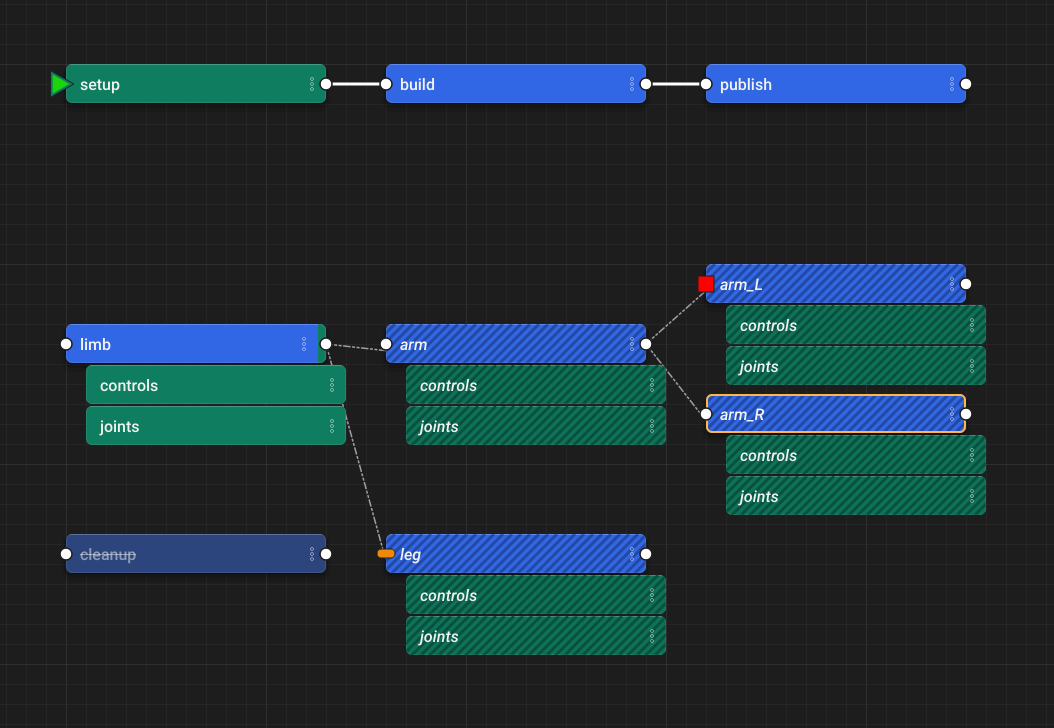
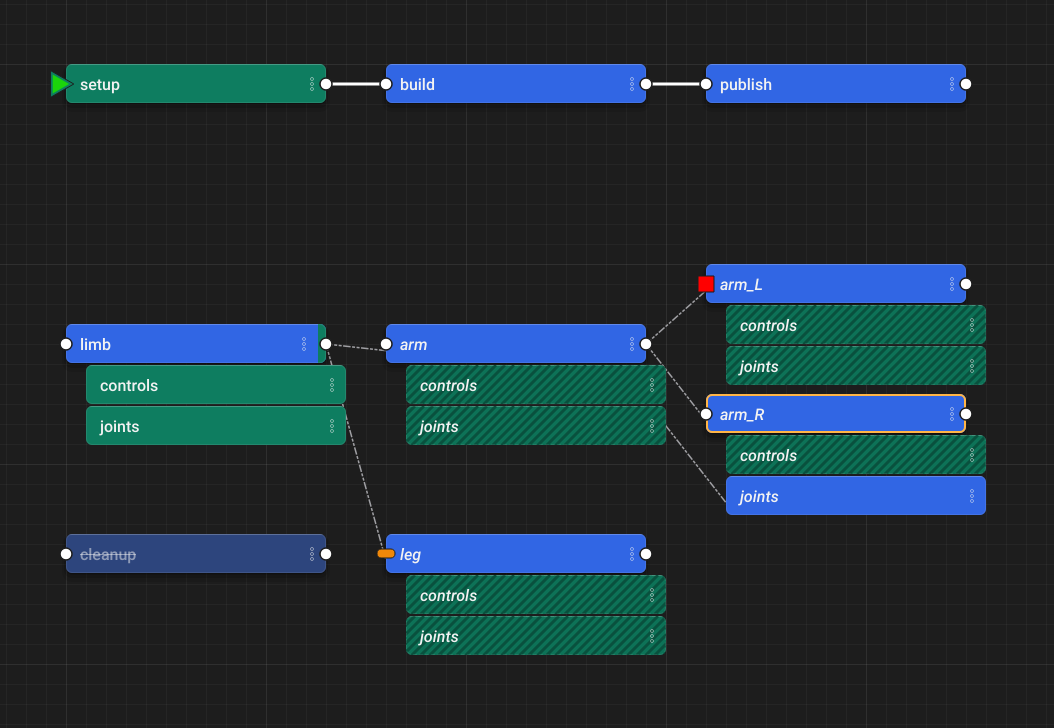
Only proxy nodes are striped, and what is new in 4.6.1
The pictures and text showed every instance striped. Only proxy nodes,
made by an instance with nothing of their own yet, are; the example graph
now overrides one proxy child to show the difference.

diff --git a/docs/user_docs/docs/editor.md b/docs/user_docs/docs/editor.md
@@ -45,7 +45,7 @@ hidden, switch between open files from the bottom of the **Window** menu.
 
 ### How nodes look
 
-![Nodes in their layer colors: a node with a weaker layer's chip, striped instances, a disabled node, a selected node, and start, break and skip points](images/nodes_look.png)
+![Nodes in their layer colors: a node with a weaker layer's chip, striped proxy nodes, a disabled node, a selected node, and start, break and skip points](images/nodes_look.png)
 
 The editor is drawn in neutral dark greys, so the only color on screen is
 your layers'. It ships its own fonts, sized in pixels, and its own colors,
@@ -58,8 +58,10 @@ and Blender.
   changed for you alone, see [Layer Color View](#layer-color-view)
   below.
 - Names are white. A disabled node's title is faded and struck through, and
-  a node that is an instance, or was made by one, has its name in italics
-  and diagonal stripes across its title.
+  an instance has its name in italics. A proxy node, one made by an
+  instance that has nothing of its own yet, has diagonal stripes across its
+  title. Change anything on it and it becomes a node of its own, drawn like
+  any other.
 - A selected node has an amber outline, and the node under the mouse a thin
   white one.
 - Start, skip and break points sit on the node's exec input: a green
@@ -555,8 +557,8 @@ on from **Window > Outliner**.
   above them stay so you can see where they are, and `Enter` frames the
   first match.
 - Text is white, as on the node in the graph, and a disabled node's is
-  faded and in italics. An instanced node's row is striped, as its title
-  is in the graph. Hovering a row outlines it in white and selecting
+  faded and in italics. A proxy node's row is striped, as its title is
+  in the graph. Hovering a row outlines it in white and selecting
   it outlines it in amber, the row's color staying as it is.
 - Start, break and skip points show before the name as they do on the
   node in the graph: the start icon, a red square for a breakpoint and an

diff --git a/docs/user_docs/docs/whats_new.md b/docs/user_docs/docs/whats_new.md
@@ -4,14 +4,21 @@ This page summarises what is new in **nxt_editor 4.6**, **nxt_editor 4.5**,
 **nxt_editor 4.4** and **nxt_core 0.21**. Each item links to the part of the docs that explains
 it in full.
 
+## nxt_editor 4.6.1
+
+- Only proxy nodes are striped again, as before 4.6.0: nodes made by an
+  instance that have nothing of their own yet. An instance, or a node that
+  overrides anything its instance gives it, looks like any other node, in
+  the graph and the Outliner. See [How nodes look](editor.md#how-nodes-look).
+
 ## nxt_editor 4.6.0
 
 ### A new look, the same everywhere
 
 The editor is drawn in neutral dark greys, so the only color on screen is
 your layers'. Nodes are rounded cards in their layer's color with white
-names, a selected node has an amber outline, and instanced nodes are
-striped. It ships its own fonts and colors, so it looks the same on every
+names, a selected node has an amber outline, and proxy nodes, made by an
+instance and not yet changed, are striped. It ships its own fonts and colors, so it looks the same on every
 platform and in every host. See [How nodes look](editor.md#how-nodes-look).
 
 ### Outliner
